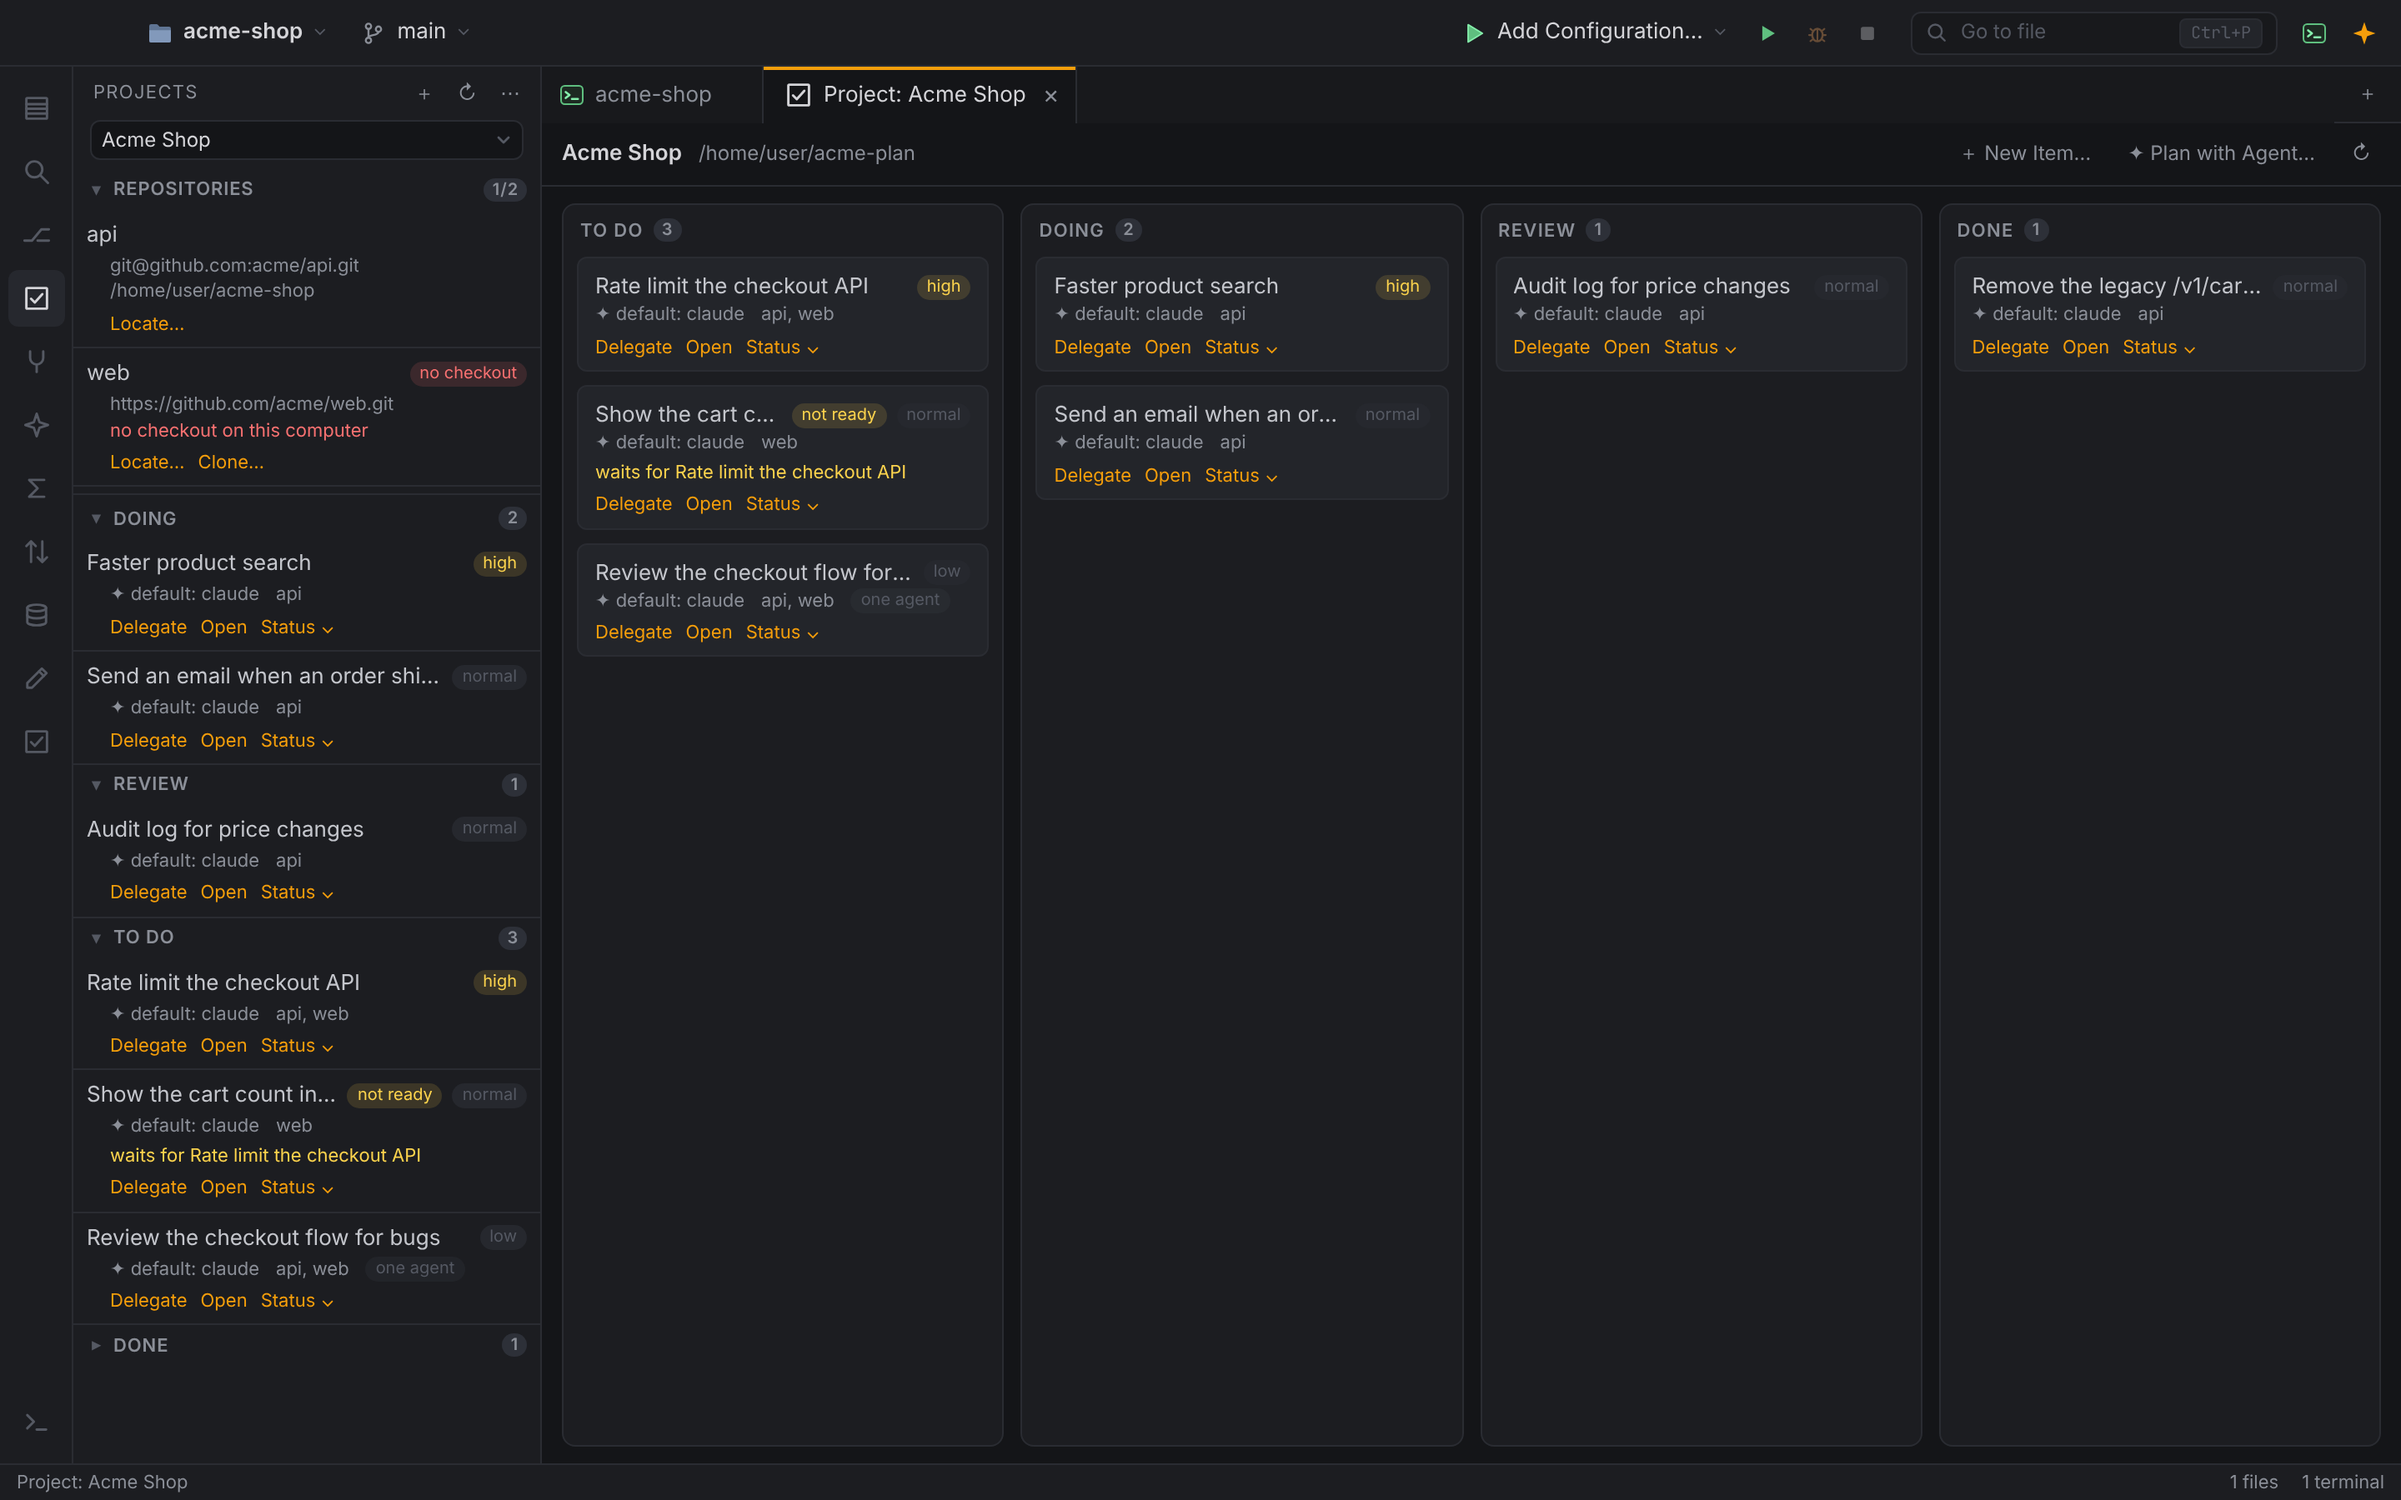
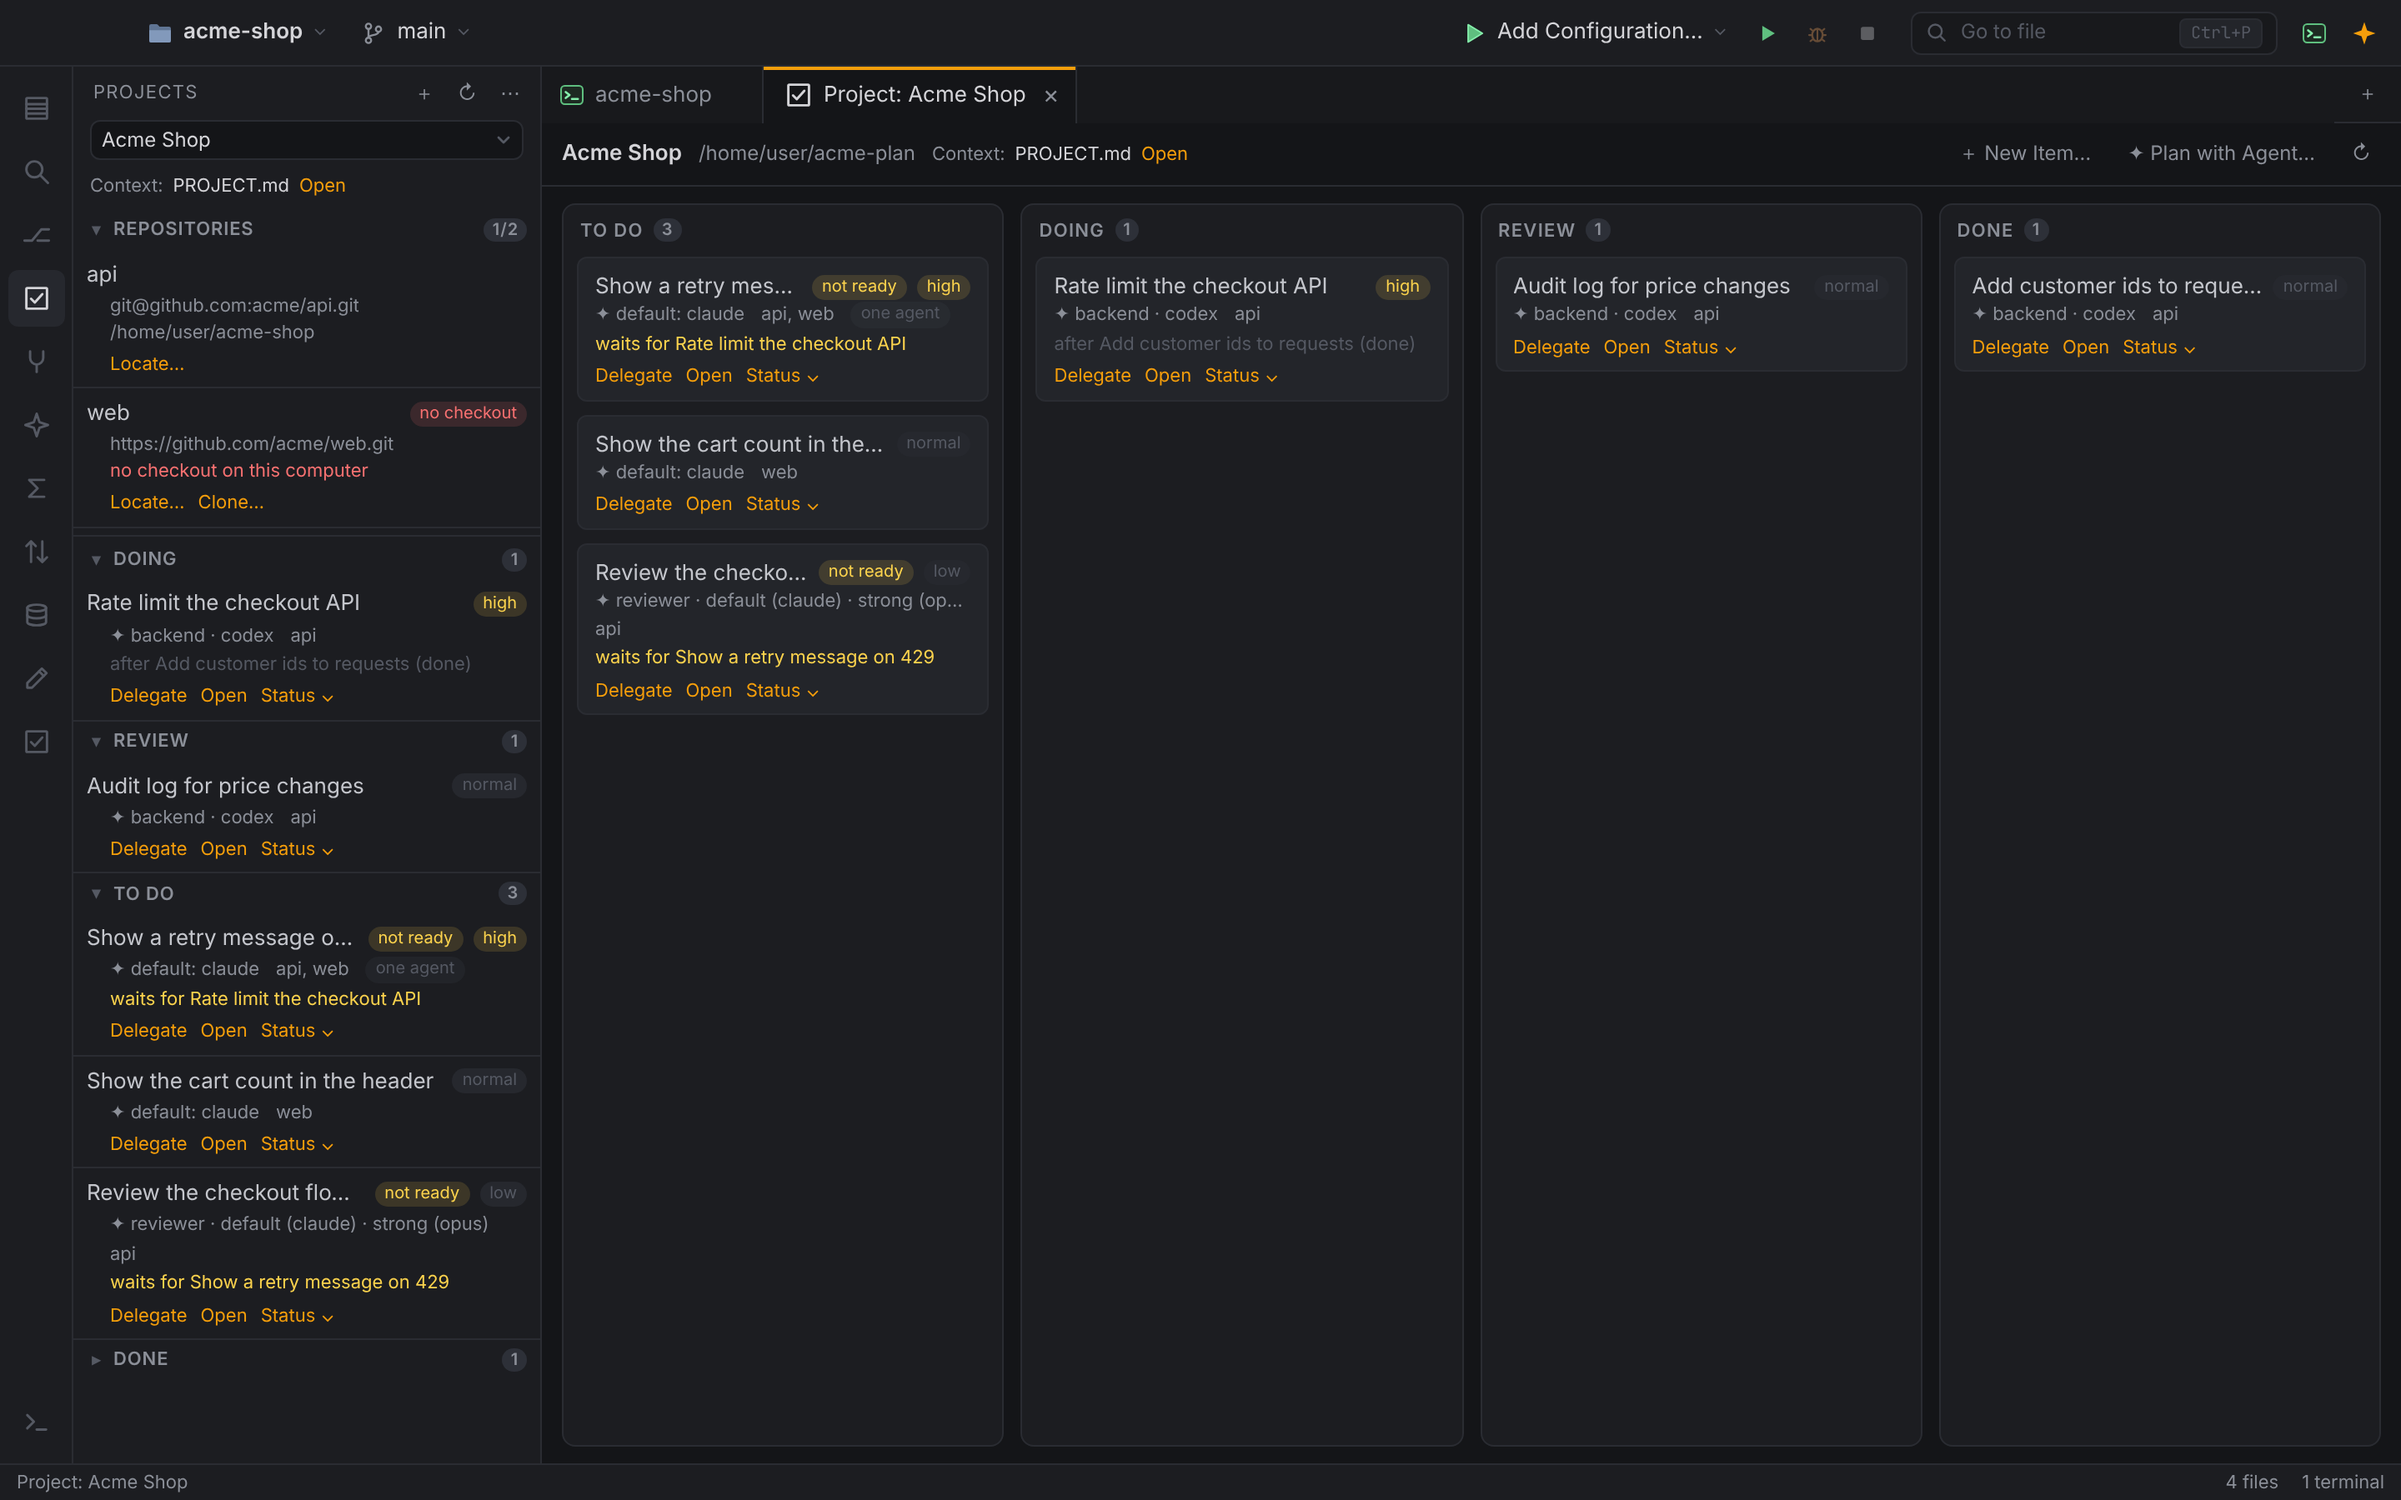
docs: screenshots of the Projects panel, board and Plan with Agent
Claude-Session: https://claude.ai/code/session_01RDemkNgnazAvXXCCuUFomL

diff --git a/site/guides/projects.md b/site/guides/projects.md
@@ -512,6 +512,8 @@ Flint refuses to write a file it can't change safely and says why. Set the statu
 
 Instead of writing every item yourself, you can state a goal and let an agent split it into items. The agent adds them to the project's backlog as `todo` items, one at a time, and you decide about each one.
 
+![Plan with Agent: the goal, the agent and the note that the prompt goes into a chat draft](../images/projects-plan.png)
+
 1. Click **Plan with Agent…** in the Projects panel, or run it from the command palette.
 2. Say what the goal is (1 to 2,000 characters, with the [character rules](#items) of an item's text) and pick the agent: a [defined agent](ai-agents.md#defined-agents) such as a planner, or any other agent. The default agent is the default choice.
 3. Flint puts a prompt into the draft of a chat with that agent. Read it, change it, and send it. Flint sends nothing for you.
